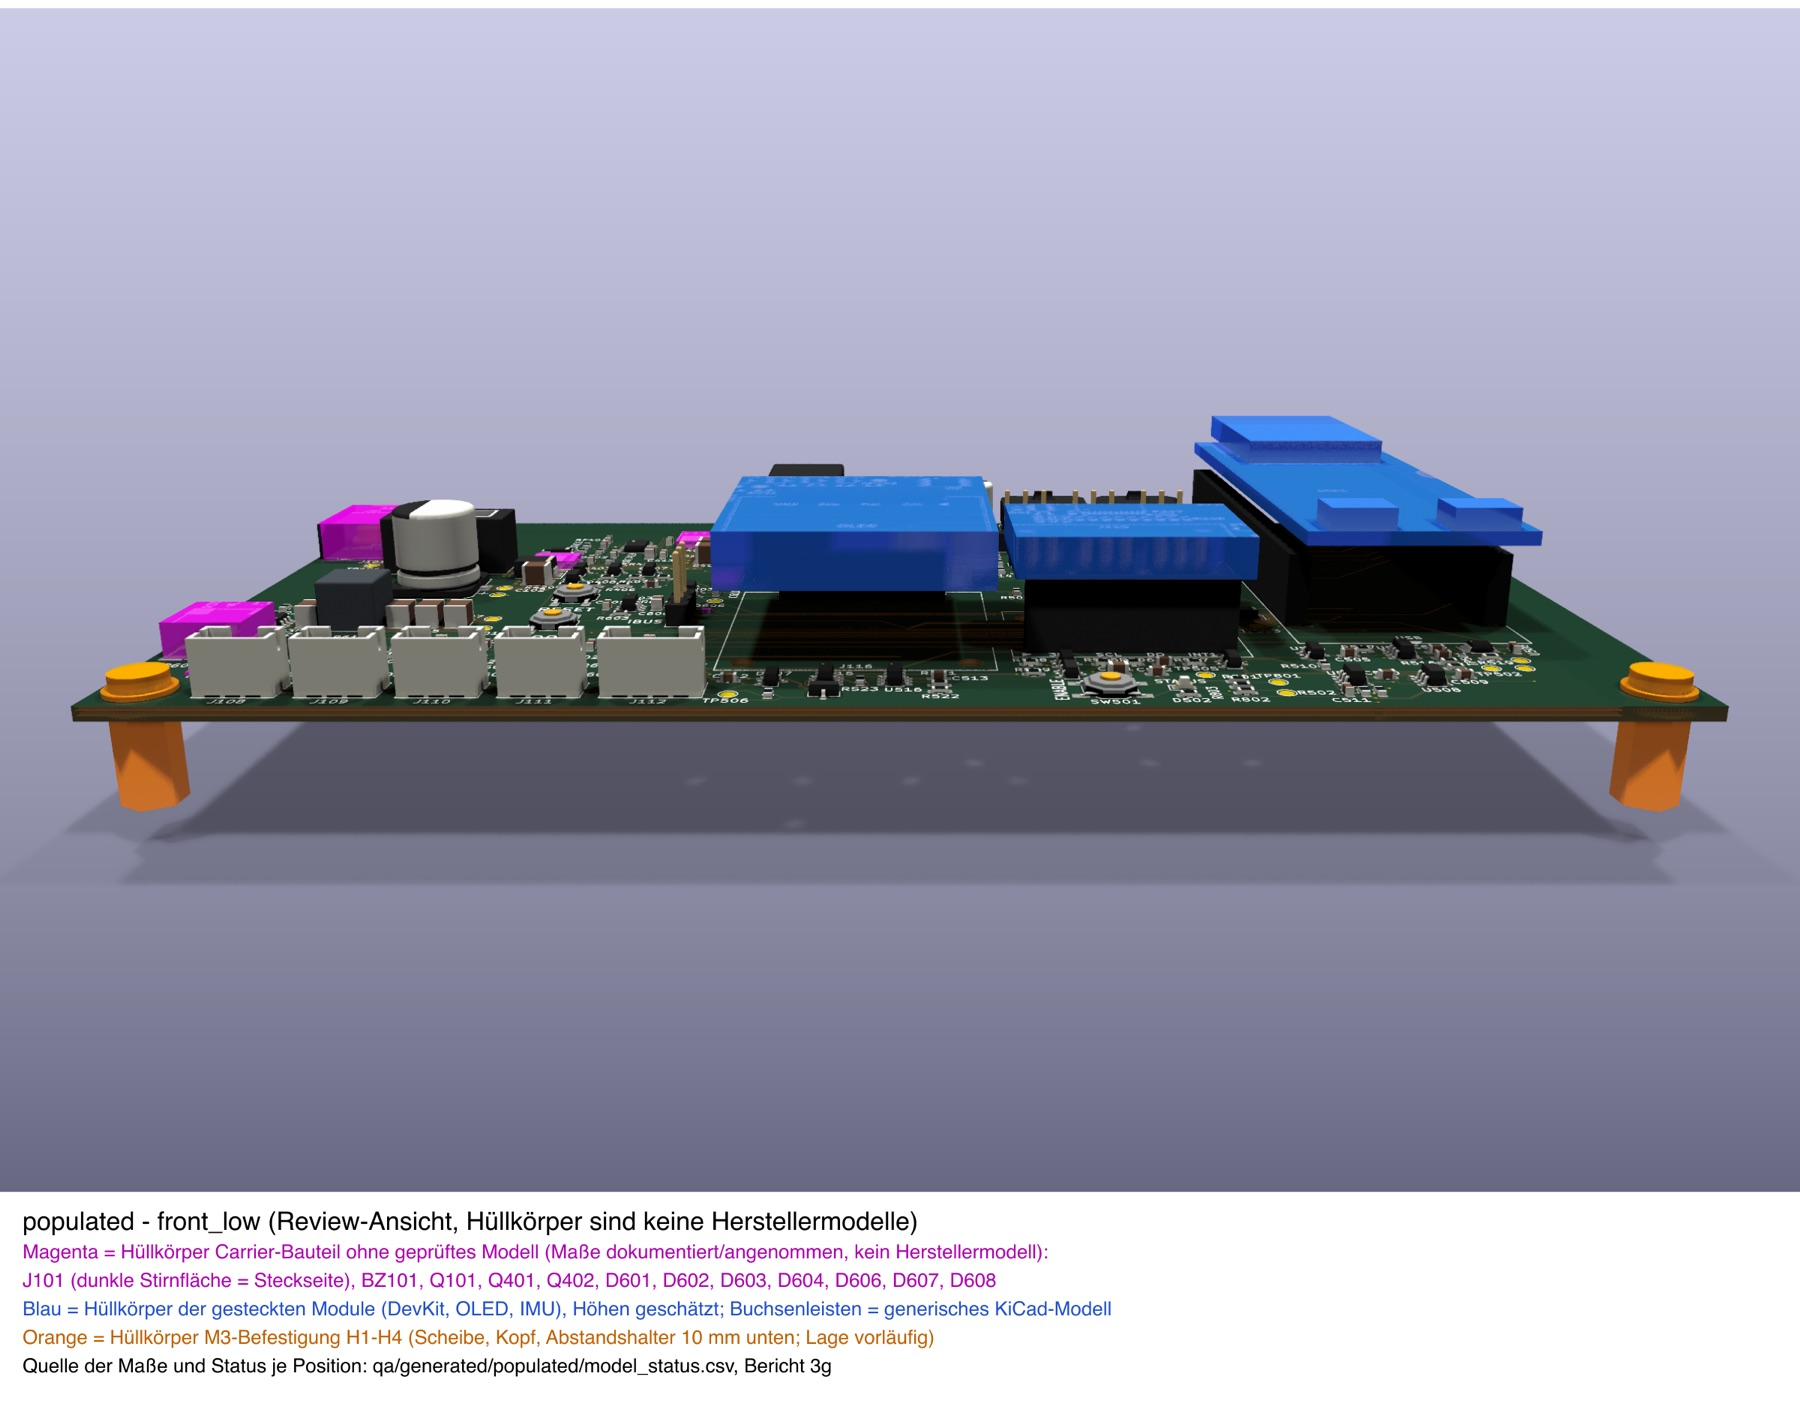
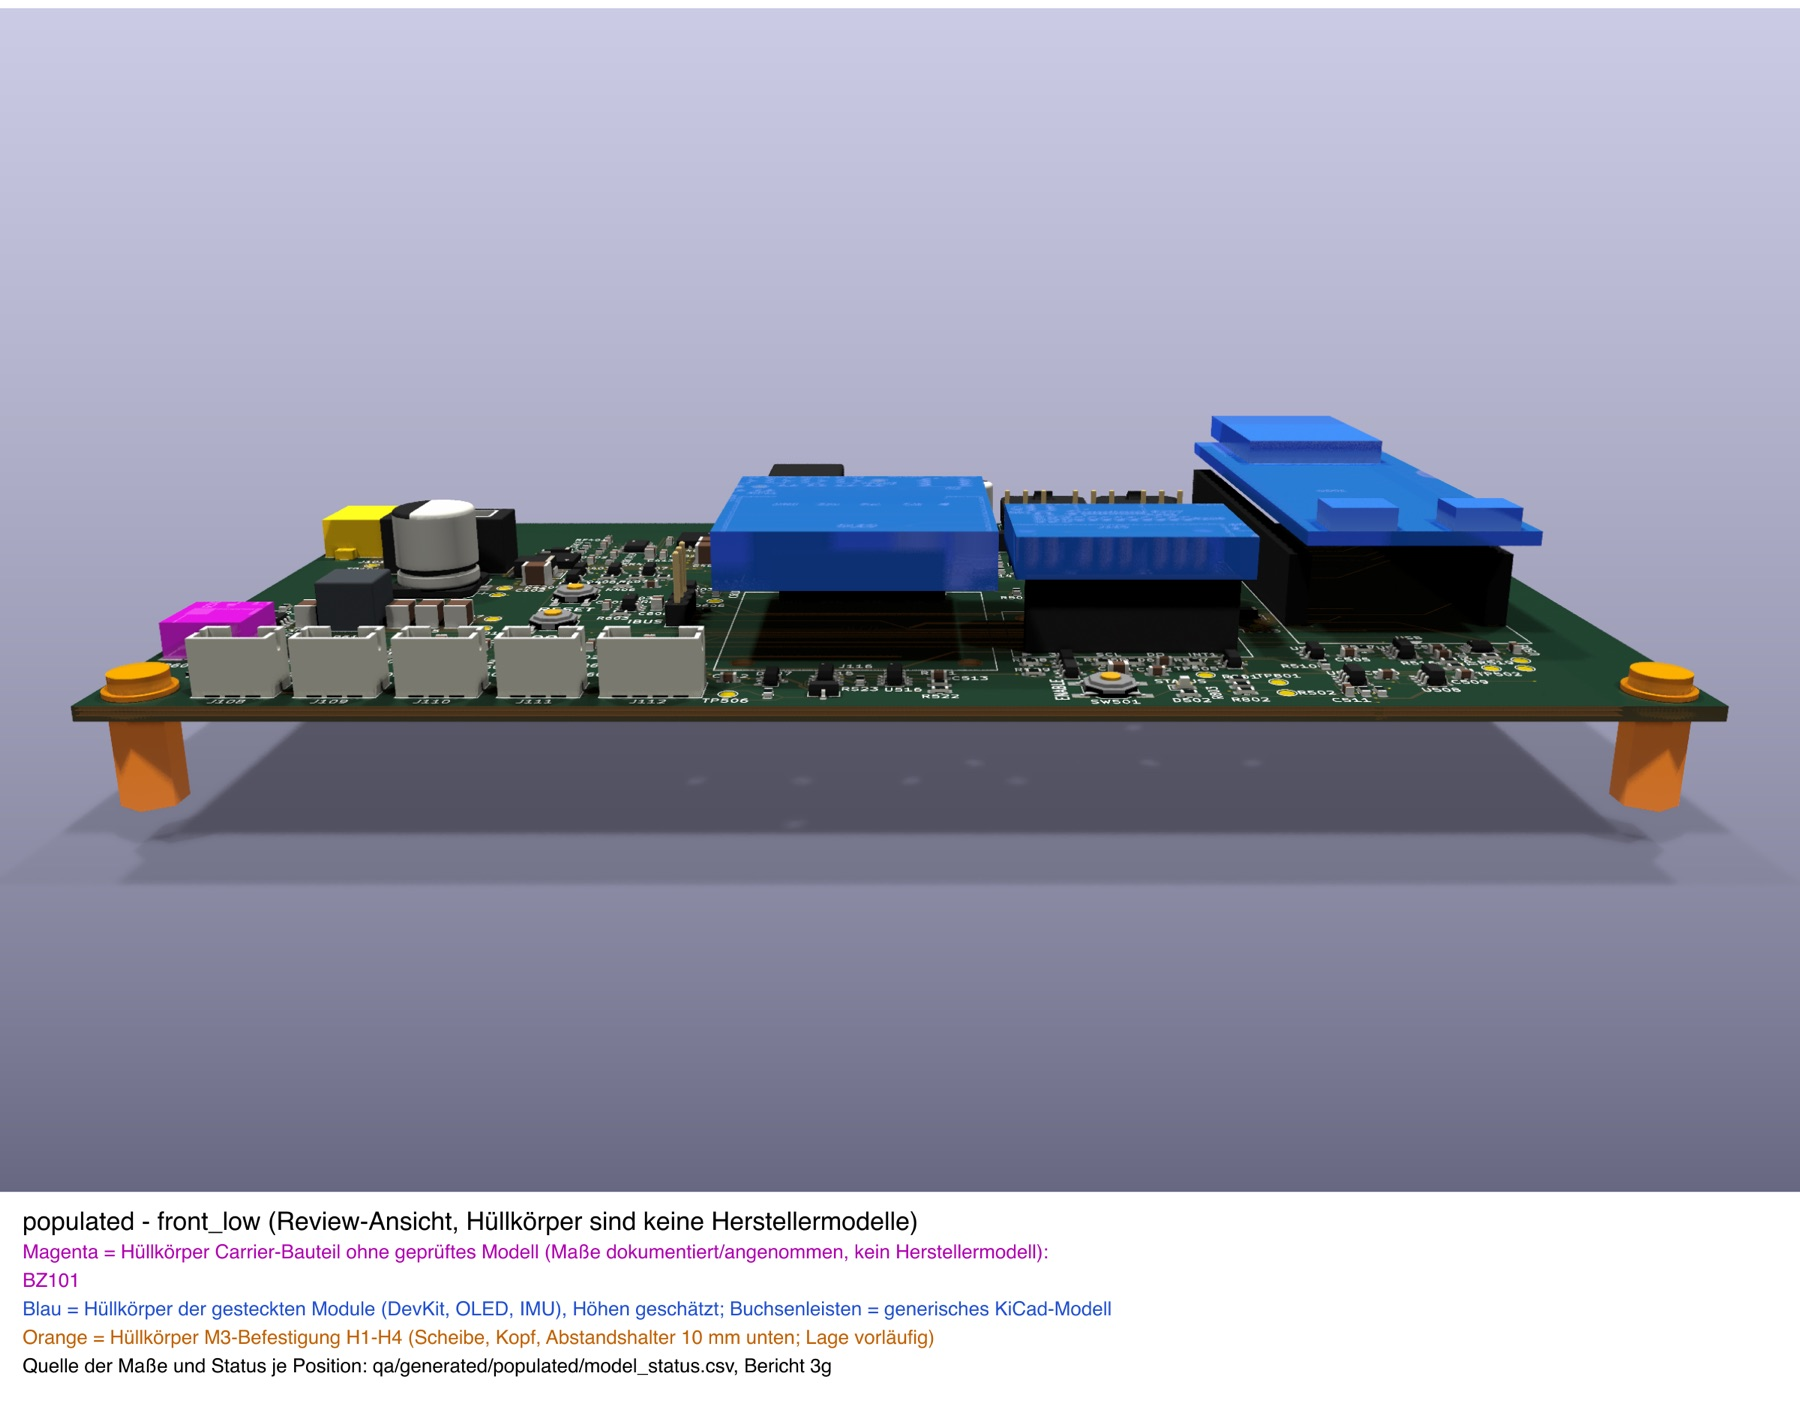
README, Pages and report 3m: own package models, updated renders

Changed region(s): [[0.0, 0.8901, 0.56, 0.9208], [0.1556, 0.3376, 0.2178, 0.399], [0.3733, 0.3683, 0.4044, 0.4297]]

diff --git a/README.md b/README.md
@@ -17,14 +17,13 @@ prüfbare Prototyp nach dem [Inbetriebnahmeplan](docs/bringup.md).
 ## Ansichten
 
 Review-Ansichten (`hardware/scripts/render_populated_review.py`): Bauteile mit
-KiCad-Bibliotheksmodell erscheinen normal. **Magenta** sind gekennzeichnete
-Hüllkörper für Carrier-Teile ohne verfügbares Modell (J101 XT30 mit dunkler
-Stirnfläche auf der Steckseite, BZ101, Q101, Q401, Q402, D601–D604,
-D606–D608). J102/J103 zeigen das Molex-Herstellermodell (projektlokal, nicht
-in Git; Quelle und Prüfsumme in `hardware/libraries/3d-models/models.csv`). **Blau** sind Hüllkörper der gesteckten Module
-(DevKit, OLED, IMU). Hüllkörper sind keine Herstellermodelle; ihre Maße und
-Quellen stehen in `qa/generated/populated/model_status.csv` und im Bericht
-(3g, 3l).
+KiCad-Bibliotheksmodell erscheinen normal. J102/J103 zeigen das Molex-Herstellermodell
+(projektlokal, nicht in Git). J101 XT30, Q101, Q401/Q402 und D601–D604, D606–D608 zeigen **eigene
+Gehäusemodelle**, aus den Herstellerzeichnungen erzeugt (`hardware/scripts/make_package_models.py`, MIT; Maße
+und Quellen in `hardware/libraries/3d-models/models.csv`; die XT30-Höhe ist geschätzt). **Magenta** ist nur noch
+der Hüllkörper für BZ101 (Modell bei Same Sky nur gegen E-Mail und Zustimmung zu den CAD-Bedingungen).
+**Blau** sind Hüllkörper der gesteckten Module (DevKit, OLED, IMU). Hüllkörper sind keine Herstellermodelle;
+Status je Position in `qa/generated/populated/model_status.csv`, Bericht 3g, 3l, 3m.
 
 | Mit Modulen | Ohne Module (Buchsenleisten) |
 |---|---|
@@ -85,9 +84,8 @@ Online: <https://cagricatik.github.io/RoverCore/>
 - Bohrdateien: `kit export` liefert getrennt `RoverCore-PTH.drl` und
   `RoverCore-NPTH.drl`; beide hochladen und die 10 NPTH-Löcher in der
   Fertiger-Vorschau prüfen (Bericht 3n).
-- 3D: Herstellermodelle für XT30, BZ101, Q101, Q401/Q402, D601–D608 sowie
-  DevKit, OLED und IMU fehlen noch (Download-Stand je Teil im Bericht 3m).
-  J102/J103 haben das Molex-Modell.
+- 3D: Für BZ101 und die Module DevKit, OLED, IMU fehlen noch Modelle (Hüllkörper). J102/J103 haben das
+  Molex-Modell, J101, Q101, Q401/Q402 und D601–D608 eigene Gehäusemodelle nach Herstellerzeichnung.
 - GO-Freigabe nur mit signierter Freigabe (`manufacturing/approval.example.json`)
   und `--authorize`.
 

diff --git a/docs/vcu/rev1-platzierung.md b/docs/vcu/rev1-platzierung.md
@@ -1366,6 +1366,33 @@ Ergebnis:
 - **D502:** Für das jetzt festgelegte Teil 150060RS75000 bleibt das passende
   KiCad-Bibliotheksmodell LED_0603 im Einsatz.
 
+*Nachtrag 2026-11-18 (eigene Gehäusemodelle, Owner-Freigabe: frei lizenzierte, maßlich geprüfte Modelle
+erlaubt):*
+- **Quellen geprüft, ohne Ergebnis:**
+  - Die KiCad-Bibliothek enthält die von den Footprints referenzierten Modelle für PowerPAK SO-8,
+    PG-TDSON-8, DPY0002A und XT30PW-M nicht, weder auf master noch im Tag 10.0.7; in
+    `Connector_AMASS` gibt es nur XT60.
+  - EasyEDA/LCSC sperrt automatisierte Abrufe (HTTP 403).
+  - Flux.ai hat für XT30PW-M keine Dateien.
+- **Gehäuse bestätigt:**
+  - SiRA99DP = PowerPAK SO-8 Single (Vishay-Datenblatt 71023, Zeichnung 71655);
+  - BSC026N04LS = PG-TDSON-8-6 (Infineon-Produktseite);
+  - TPD1E05U06DPYR = DPY0002A X1SON (TI SLVSBO7O);
+  - XT30PW-M = AMASS-Spezifikation V1.2.
+- **Eigene Modelle:** `hardware/scripts/make_package_models.py` erzeugt VRML-Modelle aus diesen
+  Zeichnungen, mit Nennmaßen. Die XT30-Höhe von 5,2 mm ist in der Zeichnung nicht bemaßt und aus der
+  Ansicht abgegriffen (Schätzung). Die Modelle liegen in Git (`hardware/libraries/3d-models/project/`,
+  MIT); Werte und Prüfung je Zeile in `models.csv`.
+- **Prüfung im Render:** `model_fit_check.py` und die Gesamtansicht. Gehäuse und Anschlüsse liegen auf
+  Umriss und Pads, die Pin-1-Marke liegt an Pad 1, J101 steckt mit den Kontakten in den Pads und mit den
+  Zapfen in den Ohrbohrungen.
+- **Fehler im Generator gefunden und behoben:** Die y-Spiegelung kehrt die Flächenorientierung um. Im
+  ersten Render waren die Gehäuse hohl und zeigten die Pads.
+- **Grenze:** VRML erscheint nicht im STEP-Export der Platine.
+- **Stand `models_3d`:** BZ101 hat keinen Körper. Die Module DevKit, OLED und IMU erscheinen in der
+  Platine nur als Buchsenleisten; als ganze Module sind sie nur in den Review-Ansichten zu sehen, als
+  Hüllkörper.
+
 *Für die blockierten Teile braucht es den Owner:*
 - **Ultra Librarian (TPD1E05U06):** im Browser-Bereich anmelden; dann lade ich
   das Modell und prüfe es wie oben.

diff --git a/docs/index.md b/docs/index.md
@@ -14,10 +14,9 @@ KiCad 10.0.7, 4 Lagen, 150 × 85 mm.
 
 ![RoverCore Rev 1 mit gesteckten Modulen](images/populated_iso_front.jpg)
 
-**Magenta** = gekennzeichnete Hüllkörper für Carrier-Teile ohne verfügbares
-Modell (XT30 mit dunkler Steckseite, Buzzer, Leistungs-FETs, X2SON-Dioden);
-**blau** = Hüllkörper der gesteckten Module (DevKit, OLED, IMU). J102/J103
-zeigen das Molex-Herstellermodell.
+J102/J103 zeigen das Molex-Herstellermodell; XT30, Leistungs-FETs und X1SON-Dioden eigene Gehäusemodelle
+nach Herstellerzeichnung. **Magenta** = Hüllkörper für den Buzzer BZ101; **blau** = Hüllkörper der
+gesteckten Module (DevKit, OLED, IMU).
 Hüllkörper sind keine Herstellermodelle.
 
 | Mit Modulen | Ohne Module |
